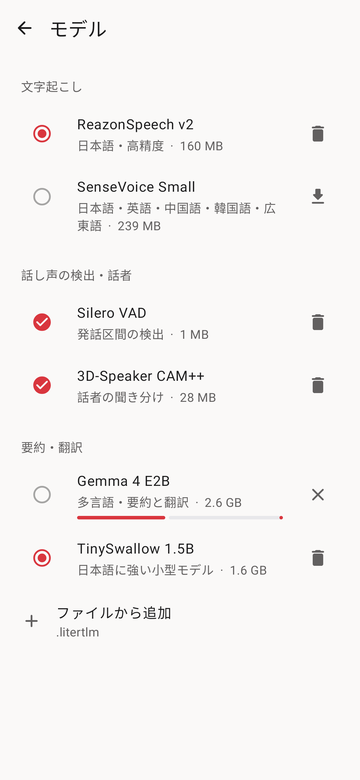
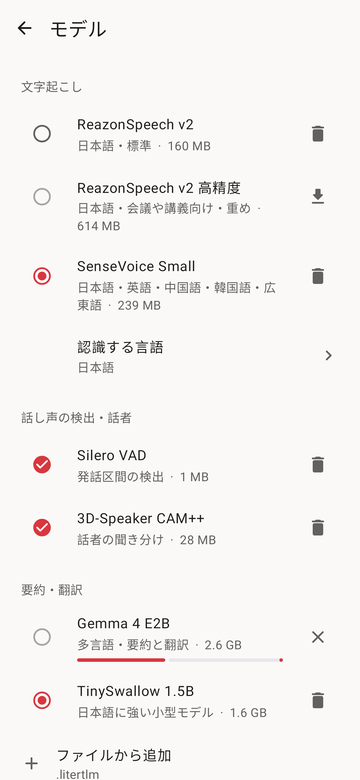
Let SenseVoice be told which language to expect
SenseVoice detects the language of every utterance, and noisy or
reverberant Japanese was often recognized as Korean or Chinese. Fixed to
Japanese, its reading error rate on PC went from 7.50% to 5.85% with the
phone on a desk, 13.87% to 11.73% in a lecture hall and 56.2% to 46.9%
in a hall; a meeting room with other voices around did not change
significantly.

The model list shows "認識する言語" (自動, 日本語, 英語, 中国語, 韓国語,
広東語) only while SenseVoice is the active model, so the other models
gain no setting. It defaults to 自動, which keeps the previous behaviour.
The models screenshot shows the new row.

diff --git a/app/src/main/java/org/openrecorder/app/ui/ModelsScreen.kt b/app/src/main/java/org/openrecorder/app/ui/ModelsScreen.kt
@@ -7,6 +7,7 @@ import androidx.compose.foundation.rememberScrollState
 import androidx.compose.foundation.verticalScroll
 import androidx.compose.material.icons.Icons
 import androidx.compose.material.icons.automirrored.rounded.ArrowBack
+import androidx.compose.material.icons.automirrored.rounded.KeyboardArrowRight
 import androidx.compose.material.icons.rounded.*
 import androidx.compose.material3.*
 import androidx.compose.runtime.*
@@ -28,18 +29,33 @@ data class ModelRow(val spec: ModelSpec, val installed: Boolean, val active: Boo
 class ModelActions(
     val back: () -> Unit = {}, val download: (ModelSpec) -> Unit = {}, val cancel: (ModelSpec) -> Unit = {},
     val delete: (ModelSpec) -> Unit = {}, val choose: (ModelSpec) -> Unit = {}, val importLlm: () -> Unit = {},
+    val senseVoiceLanguage: (String) -> Unit = {},
 )
 
+/** SenseVoice language codes and their labels; "auto" detects the language of each utterance. */
+private val senseVoiceLanguages = listOf("auto" to "自動", "ja" to "日本語", "en" to "英語", "zh" to "中国語", "ko" to "韓国語", "yue" to "広東語")
+
+/** [senseVoiceLanguage]: the language SenseVoice expects, shown only while SenseVoice is the chosen model. */
 @Composable
-fun ModelsScreen(rows: List<ModelRow>, llmSupported: Boolean, actions: ModelActions) {
+fun ModelsScreen(rows: List<ModelRow>, llmSupported: Boolean, senseVoiceLanguage: String, actions: ModelActions) {
     var deleting by remember { mutableStateOf<ModelSpec?>(null) }
+    var choosingLanguage by remember { mutableStateOf(false) }
     Scaffold(topBar = {
         TopAppBar(title = { Text("モデル") }, navigationIcon = { IconButton(actions.back) { Icon(Icons.AutoMirrored.Rounded.ArrowBack, "戻る") } })
     }) { padding ->
         Column(Modifier.padding(padding).readable().verticalScroll(rememberScrollState()).padding(bottom = 32.dp)) {
             fun section(kind: ModelKind) = rows.filter { it.spec.kind == kind }
             SectionHeader("文字起こし")
-            section(ModelKind.Speech).forEach { ModelItem(it, actions, chooseable = true) { deleting = it.spec } }
+            section(ModelKind.Speech).forEach {
+                ModelItem(it, actions, chooseable = true) { deleting = it.spec }
+                // Detecting the language per utterance mistakes noisy or distant Japanese for Korean or Chinese.
+                if (it.spec.id == ModelCatalog.senseVoice.id && it.active) ListItem({ Text("認識する言語") },
+                    Modifier.clickable { choosingLanguage = true }.padding(horizontal = 8.dp),
+                    supportingContent = { Text(senseVoiceLanguages.firstOrNull { (code, _) -> code == senseVoiceLanguage }?.second ?: "自動") },
+                    leadingContent = { Spacer(Modifier.size(48.dp)) },
+                    trailingContent = { Icon(Icons.AutoMirrored.Rounded.KeyboardArrowRight, null) },
+                    colors = ListItemDefaults.colors(containerColor = Color.Transparent))
+            }
             SectionHeader("話し声の検出・話者")
             (section(ModelKind.Vad) + section(ModelKind.Speaker)).forEach { ModelItem(it, actions, chooseable = false) { deleting = it.spec } }
             SectionHeader("要約・翻訳")
@@ -57,6 +73,9 @@ fun ModelsScreen(rows: List<ModelRow>, llmSupported: Boolean, actions: ModelActi
         AlertDialog({ deleting = null }, title = { Text("${spec.title}を削除しますか？") }, text = { Text("もう一度使うときは再ダウンロードが必要です。") },
             confirmButton = { TextButton({ actions.delete(spec); deleting = null }) { Text("削除", color = MaterialTheme.colorScheme.error) } },
             dismissButton = { TextButton({ deleting = null }) { Text("キャンセル") } })
+    }
+    if (choosingLanguage) Choice("認識する言語", senseVoiceLanguages, senseVoiceLanguage, { choosingLanguage = false }) {
+        actions.senseVoiceLanguage(it); choosingLanguage = false
     }
 }
 

diff --git a/app/src/test/java/org/openrecorder/app/ui/ScreenshotTest.kt b/app/src/test/java/org/openrecorder/app/ui/ScreenshotTest.kt
@@ -97,11 +97,11 @@ class ScreenshotTest {
             transcriptionProvider = Provider.Groq, transcriptionModel = "whisper-large-v3-turbo"), AiActions())
     }
     @Test fun models() = snap("12-models") {
-        val store = listOf(ModelCatalog.reazon to true, ModelCatalog.senseVoice to false, ModelCatalog.vad to true, ModelCatalog.speaker to true,
-            ModelCatalog.gemma to false, ModelCatalog.swallow to true)
+        val store = listOf(ModelCatalog.reazon to true, ModelCatalog.reazonFp32 to false, ModelCatalog.senseVoice to true, ModelCatalog.vad to true,
+            ModelCatalog.speaker to true, ModelCatalog.gemma to false, ModelCatalog.swallow to true)
         ModelsScreen(store.map { (spec, installed) ->
-            ModelRow(spec, installed, spec == ModelCatalog.reazon || spec == ModelCatalog.swallow, if (spec == ModelCatalog.gemma) org.openrecorder.app.ai.DownloadState(0.42f) else null)
-        }, true, ModelActions())
+            ModelRow(spec, installed, spec == ModelCatalog.senseVoice || spec == ModelCatalog.swallow, if (spec == ModelCatalog.gemma) org.openrecorder.app.ai.DownloadState(0.42f) else null)
+        }, true, "ja", ModelActions())
     }
     @Test fun translated() = snap("13-detail-translated") {
         val english = listOf("Today we'll talk about the launch schedule and budget for the new product", "We are aiming for the end of next month",

diff --git a/app/src/main/java/org/openrecorder/app/MainActivity.kt b/app/src/main/java/org/openrecorder/app/MainActivity.kt
@@ -160,8 +160,9 @@ private fun App(vm: RecorderViewModel, share: (File, String) -> Unit, openUrl: (
                     val rows = (org.openrecorder.app.ai.ModelCatalog.all + org.openrecorder.app.ai.ModelCatalog.customLlm).map { spec ->
                         ModelRow(spec, vm.models.installed(spec), vm.models.active(spec.kind)?.id == spec.id, downloads[spec.id])
                     }
-                    ModelsScreen(rows, org.openrecorder.app.ai.LocalLlm.supported, ModelActions(back = ::back, download = vm::download, cancel = vm::cancelDownload,
-                        delete = vm::deleteModel, choose = vm::chooseModel, importLlm = { importLlm.launch(arrayOf("*/*")) }))
+                    ModelsScreen(rows, org.openrecorder.app.ai.LocalLlm.supported, vm.models.senseVoiceLanguage, ModelActions(back = ::back, download = vm::download,
+                        cancel = vm::cancelDownload, delete = vm::deleteModel, choose = vm::chooseModel, importLlm = { importLlm.launch(arrayOf("*/*")) },
+                        senseVoiceLanguage = vm::chooseSenseVoiceLanguage))
                 }
             }
         }

diff --git a/app/src/main/java/org/openrecorder/app/ai/Speech.kt b/app/src/main/java/org/openrecorder/app/ai/Speech.kt
@@ -35,7 +35,7 @@ class SpeechEngine(store: ModelStore, speech: ModelSpec, speakers: Boolean) : Au
                 transducer = OfflineTransducerModelConfig(store.file(speech, "encoder.onnx").path, store.file(speech, "decoder.onnx").path, store.file(speech, "joiner.onnx").path),
                 tokens = store.file(speech, "tokens.txt").path, numThreads = 2, modelType = "transducer")
             else -> OfflineModelConfig(
-                senseVoice = OfflineSenseVoiceModelConfig(model = store.file(speech, "model.onnx").path, language = "auto", useInverseTextNormalization = true),
+                senseVoice = OfflineSenseVoiceModelConfig(model = store.file(speech, "model.onnx").path, language = store.senseVoiceLanguage, useInverseTextNormalization = true),
                 tokens = store.file(speech, "tokens.txt").path, numThreads = 2)
         }
         recognizer = OfflineRecognizer(null, OfflineRecognizerConfig(featConfig = FeatureConfig(sampleRate = RATE, featureDim = 80), modelConfig = model))

diff --git a/app/src/main/java/org/openrecorder/app/ai/Models.kt b/app/src/main/java/org/openrecorder/app/ai/Models.kt
@@ -64,6 +64,13 @@ class ModelStore(private val context: Context) {
     }
     fun choose(spec: ModelSpec) { prefs.edit().putString(spec.kind.name, spec.id).apply() }
 
+    /** Language SenseVoice is told to expect: "auto" lets it detect each utterance, else ja / en / zh / ko / yue. */
+    var senseVoiceLanguage: String
+        get() = prefs.getString(SENSE_VOICE_LANGUAGE, "auto")!!
+        set(value) { prefs.edit().putString(SENSE_VOICE_LANGUAGE, value).apply() }
+
+    private companion object { const val SENSE_VOICE_LANGUAGE = "senseVoiceLanguage" }
+
     /** Copies a user-picked LiteRT-LM model into the store. */
     fun importLlm(uri: Uri, progress: (Float) -> Unit) {
         val spec = ModelCatalog.customLlm

diff --git a/app/src/main/java/org/openrecorder/app/RecorderViewModel.kt b/app/src/main/java/org/openrecorder/app/RecorderViewModel.kt
@@ -227,6 +227,7 @@ class RecorderViewModel(application: Application) : AndroidViewModel(application
     fun cancelDownload(spec: ModelSpec) = ModelDownloadService.cancel(app, spec.id)
     fun deleteModel(spec: ModelSpec) { models.delete(spec); modelsVersion.value++ }
     fun chooseModel(spec: ModelSpec) { models.choose(spec); modelsVersion.value++ }
+    fun chooseSenseVoiceLanguage(code: String) { models.senseVoiceLanguage = code; modelsVersion.value++ }
     fun importLlm(uri: Uri) = task("モデルを追加中") {
         models.importLlm(uri) { p -> busy.value = "モデルを追加中 ${(p*100).toInt()}%" }
         models.choose(ModelCatalog.customLlm); modelsVersion.value++

diff --git a/README.md b/README.md
@@ -41,7 +41,7 @@ Downloaded under **Settings → Models**; interrupted downloads resume.
 | --- | --- | --- |
 | Transcription (ja) | ReazonSpeech v2, int8 | 160 MB |
 | Transcription (ja, meetings and lectures) | ReazonSpeech v2, fp32 | 614 MB |
-| Transcription (ja/en/zh/ko/yue) | SenseVoice Small, int8 | 239 MB |
+| Transcription (ja/en/zh/ko/yue) | SenseVoice Small, int8; language detected or fixed | 239 MB |
 | Speech detection | Silero VAD | 2 MB |
 | Speakers | 3D-Speaker CAM++ | 28 MB |
 | Summary and translation | Gemma 4 E2B, TinySwallow 1.5B or your own `.litertlm` | 2.6 GB / 1.6 GB |
